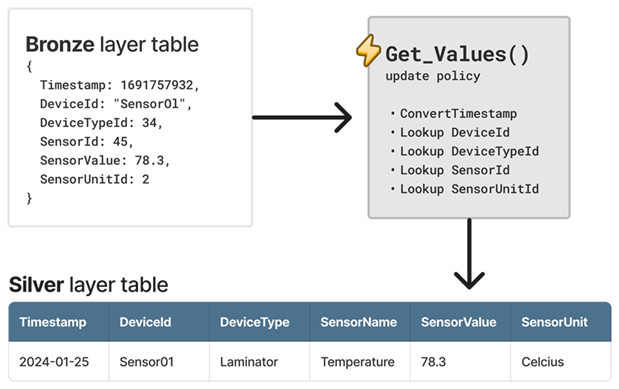
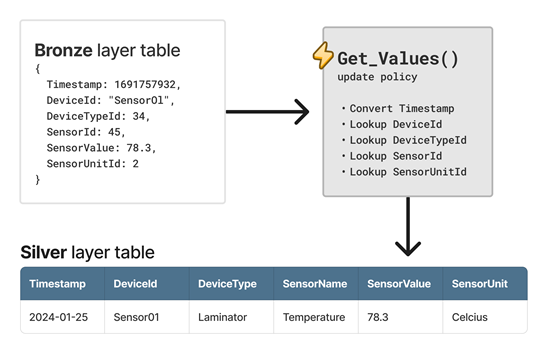
Feeback updates from Peter

Changed region(s): [[0.0, 0.0312, 0.9927, 0.966], [0.031, 0.0935, 0.3412, 0.5297], [0.031, 0.5609, 0.4033, 0.5921]]

diff --git a/data-explorer/kusto/management/update-policy.md b/data-explorer/kusto/management/update-policy.md
@@ -22,11 +22,11 @@ An update policy is subject to the same restrictions and best practices as regul
 > * The source and target table must be in the same database.
 > * The update policy function schema and the target table schema must match in their column names, types, and order.
 
-Ingesting formatted data improves performance, and CSV is preferred because of it's a well-defined format. Sometimes, however, you have no control over the format of the data, or you may want to enrich ingested data, for example by joining records with a static dimension table in your database.
+Ingesting formatted data improves performance, and CSV is preferred because of it's a well-defined format. Sometimes, however, you have no control over the format of the data, or you want to enrich ingested data, for example, by joining records with a static dimension table in your database.
 
 ## Update policy query
 
-If the update policy is defined on the target table, multiple queries can run on data ingested into a source table. If there are multiple update policies, the order of execution is not necessarily known.
+If the update policy is defined on the target table, multiple queries can run on data ingested into a source table. If there are multiple update policies, the order of execution isn't necessarily known.
 
 ### Query limitations
 
@@ -38,16 +38,9 @@ If the update policy is defined on the target table, multiple queries can run on
 * For update policy limitations in streaming ingestion, see [streaming ingestion limitations](../../ingest-data-streaming.md#limitations).
 
 > [!WARNING]
-> An incorrect query might prevent data ingestion into the source table.
-
-> The limitations above, and the "compatibility" between the query results and
-> the schema of the source and destination tables, might cause an incorrect
-> query to prevent data ingestion into the source table.
+> An incorrect query can prevent data ingestion into the source table. It is important to note that limitations, as well as the compatibility between the query results and the schema of the source and destination tables, can cause an incorrect query to prevent data ingestion into the source table.
 >
-> Those limitations are validated when the policy is created and executed,
-> but not when arbitrary stored functions that the query might reference are
-> updated. Therefore it's important to make such changes with an eye towards
-> keeping the update policy intact.
+> These limitations are validated during the creation and execution of the policy, but not when arbitrary stored functions that the query might reference are updated. Therefore, it is crucial to make any changes with caution to ensure the update policy remains intact.
 
 When referencing the `Source` table in the `Query` part of the policy, or in functions referenced by the `Query` part:
 
@@ -56,7 +49,7 @@ When referencing the `Source` table in the `Query` part of the policy, or in fun
 
 ## The update policy object
 
-A table may have zero or more update policy objects associated with it.
+A table can have zero or more update policy objects associated with it.
 Each such object is represented as a JSON property bag, with the following properties defined.
 
 |Property |Type |Description  |
@@ -64,9 +57,9 @@ Each such object is represented as a JSON property bag, with the following prope
 |IsEnabled  |`bool` |States if update policy is *true* - enabled, or *false* - disabled|
 |Source |`string` |Name of the table that triggers invocation of the update policy |
 |Query |`string` |A query used to produce data for the update |
-|IsTransactional |`bool` |States if the update policy is transactional or not, default is *false*. If transactional and the update policy fails, the source table is not updated. |
+|IsTransactional |`bool` |States if the update policy is transactional or not, default is *false*. If the policy is transactional and the update policy fails, the source table isn't updated. |
 |PropagateIngestionProperties  |`bool`|States if properties specified during ingestion to the source table, such as [extent tags](extent-tags.md) and creation time, apply to the target table. |
-|ManagedIdentity | `string` | The managed identity on behalf of which the update policy will run. The managed identity can be an object ID, or the `system` reserved word. The update policy must be configured with a managed identity when the query references tables in other databases or tables with an enabled [row level security policy](row-level-security-policy.md). For more information, see [Use a managed identity to run a update policy](update-policy-with-managed-identity.md). |
+|ManagedIdentity | `string` | The managed identity on behalf of which the update policy runs. The managed identity can be an object ID, or the `system` reserved word. The update policy must be configured with a managed identity when the query references tables in other databases or tables with an enabled [row level security policy](row-level-security-policy.md). For more information, see [Use a managed identity to run a update policy](update-policy-with-managed-identity.md). |
 
 > [!NOTE]
 > In production systems, set `IsTransactional`:*true* to ensure that the target table doesn't lose data in transient failures.
@@ -103,7 +96,7 @@ Update policies take effect when data is ingested or moved to a source table, or
 
 ## Remove data from source table
 
-After ingesting data to the target table, you may want to remove it from the source table. Set a soft-delete period of `0sec` (or `00:00:00`) in the source table's [retention policy](retention-policy.md), and the update policy as transactional. The following conditions apply:
+After ingesting data to the target table, you can optionally remove it from the source table. Set a soft-delete period of `0sec` (or `00:00:00`) in the source table's [retention policy](retention-policy.md), and the update policy as transactional. The following conditions apply:
 
 * The source data isn't queryable from the source table
 * The source data doesn't persist in durable storage as part of the ingestion operation
@@ -142,9 +135,9 @@ MyFunction
 
 ## Failures
 
-With the default setting of `IsTransactional`:*false*, data can still be ingested to the source table even if the policy doesn't run.
+With the default setting of `IsTransactional:`*`false`*, data can still be ingested to the source table even if the policy doesn't run.
 
-Setting `IsTransactional`:*true* guarantees consistency between data in the source and target table. However, if the policy conditions fail, data isn't ingested to the source table. Alternatively, depending on conditions, sometimes data is ingested to the source table, but not to the target table. However, if your policy is defined incorrectly, or there is a schema mismatch, data will not be ingested to the source or target table. For example, a mismatch between the query output schema and the target table could be caused by dropping a column from the target table.
+Setting `IsTransactional:`*`true`* guarantees consistency between data in the source and target table. However, if the policy conditions fail, data isn't ingested to the source table. Alternatively, depending on conditions, sometimes data is ingested to the source table, but not to the target table. However, if your policy is defined incorrectly, or there's a schema mismatch, data isn't ingested to the source or target table. For example, a mismatch between the query output schema and the target table could be caused by dropping a column from the target table.
 
 You can view failures using the [`.show ingestion failures` command](../management/ingestion-failures.md).
 
@@ -155,16 +148,16 @@ You can view failures using the [`.show ingestion failures` command](../manageme
 
 ### Treatment of failures
 
-#### Non-transactional policy
+#### Nontransactional policy
 
-When set to `IsTransactional`:*false*, any failure to run the policy is ignored. Ingestion is not automatically retried. You can manually retry ingestion.
+When set to `IsTransactional:`*`false`*, any failure to run the policy is ignored. Ingestion isn't automatically retried. You can manually retry ingestion.
 
 #### Transactional policy
 
-When set to `IsTransactional`:*true*, if the ingestion method is `pull`, the Data Management service is involved, and ingestion is automatically retried according to the following conditions:
+When set to `IsTransactional:`*`true`*, if the ingestion method is `pull`, the Data Management service is involved, and ingestion is automatically retried according to the following conditions:
 
 * Retries are performed until one of following configurable limit settings is met: `DataImporterMaximumRetryPeriod` or `DataImporterMaximumRetryAttempts`
-* By default the `DataImporterMaximumRetryPeriod` setting is 2 days, and `DataImporterMaximumRetryAttempts`is 10
+* By default the `DataImporterMaximumRetryPeriod` setting is two days, and `DataImporterMaximumRetryAttempts`is 10
 * The backoff period starts at 2 minutes, and doubles. So the wait starts with 2 min, then increases to 4 min, to 8 min, to 16 min and so on.
 
 In any other case, you can manually retry ingestion.
@@ -173,7 +166,7 @@ In any other case, you can manually retry ingestion.
 
 You can use update policy settings to perform extract, transform, load (ETL).
 
-In this example, use an update policy in conjunction with a simple function to perform ETL. First, we create two tables:
+In this example, use an update policy with a simple function to perform ETL. First, we create two tables:
 
 * The source table - Contains a single string-typed column into which data is ingested.
 * The target table - Contains the desired schema. The update policy is defined on this table.

diff --git a/data-explorer/kusto/management/update-policy-tutorial.md b/data-explorer/kusto/management/update-policy-tutorial.md
@@ -27,7 +27,7 @@ The example in this tutorial demonstrates how to use update policies for [data r
 
 ## 1 - Create tables and update policies
 
-The following steps walk you through creating a source table, transformation functions, destination tables, and update policies. The example demonstrates how to use table update policies to perform complex transformations and save the results to one or more destination tables. The example uses a single source table named **Raw_Table** and three destination tables named **Device_Telemetry**, **Device_Alarms**, and **Error_Log**.
+The following steps guide you through creating a source table, transformation functions, destination tables, and update policies. The tutorial demonstrates how to use table update policies to perform complex transformations and save the results to one or more destination tables. The example uses a single source table named **Raw_Table** and three destination tables named **Device_Telemetry**, **Device_Alarms**, and **Error_Log**.
 
 1. Run the following command to create a table named **Raw_Table**.
 
@@ -73,7 +73,7 @@ The following steps walk you through creating a source table, transformation fun
       }
     ```
 
-    When creating an update policy, you can specify an in-line script for execution. However, we recommend encapsulating the transformation logic into a KQL function. Using a function improves code maintenance. When new data arrives, the function is executed to transform the data. The function can be reused across multiple update policies. For more information, see [.create function command](/azure/data-explorer/kusto/management/create-function).
+    When creating an update policy, you can specify an in-line script for execution. However, we recommend encapsulating the transformation logic into a function. Using a function improves code maintenance. When new data arrives, the function is executed to transform the data. The function can be reused across multiple update policies. For more information, see [.create function command](/azure/data-explorer/kusto/management/create-function).
 
 1. Run the following command to create the destination tables.
 

diff --git a/data-explorer/kusto/management/update-policy-common-scenarios.md b/data-explorer/kusto/management/update-policy-common-scenarios.md
@@ -24,7 +24,7 @@ In the medallion architecture, when raw data lands in a landing table (bronze la
 
 The following diagram illustrates an example of a data enrichment update policy named **Get_Values**. The enriched data is output to a silver layer table, which includes a calculated timestamp value and lookup values based on the raw data.
 
-:::image type="content" source="media/update-policy-common-scenarios/medallion-architecture-data-enrichment.png" alt-text="Diagram showing the medalliion architecture data enrichment using update policies solution.":::
+:::image type="content" source="media/update-policy-common-scenarios/medallion-architecture-data-enrichment.png" alt-text="Diagram showing the medallion architecture data enrichment scenario using update policies solution.":::
 
 ## Data routing
 
@@ -36,7 +36,7 @@ To handle this scenario, three update policies are used. The **Get_Telemetry** u
 
 The following diagram depicts the example with the three update policies.
 
-:::image type="content" source="media/update-policy-common-scenarios/data-routing.png" alt-text="Diagram showing the data routing using update policies solution.":::
+:::image type="content" source="media/update-policy-common-scenarios/data-routing.png" alt-text="Diagram showing the data routing scenario using update policies solution.":::
 
 ## Optimize data models
 
@@ -50,7 +50,7 @@ For example, you can enrich raw telemetry data from a device by looking up value
 
 The following diagram depicts the example, which comprises an update policy named **Enrich_Device_Data**. It extends the output data with data sourced from the **Site** reference data table.
 
-:::image type="content" source="media/update-policy-common-scenarios/optimize-data-models.png" alt-text="Diagram showing the optimize data models using update policies solution.":::
+:::image type="content" source="media/update-policy-common-scenarios/optimize-data-models.png" alt-text="Diagram showing the optimize data models scenario using update policies solution.":::
 
 ## Related content
 
